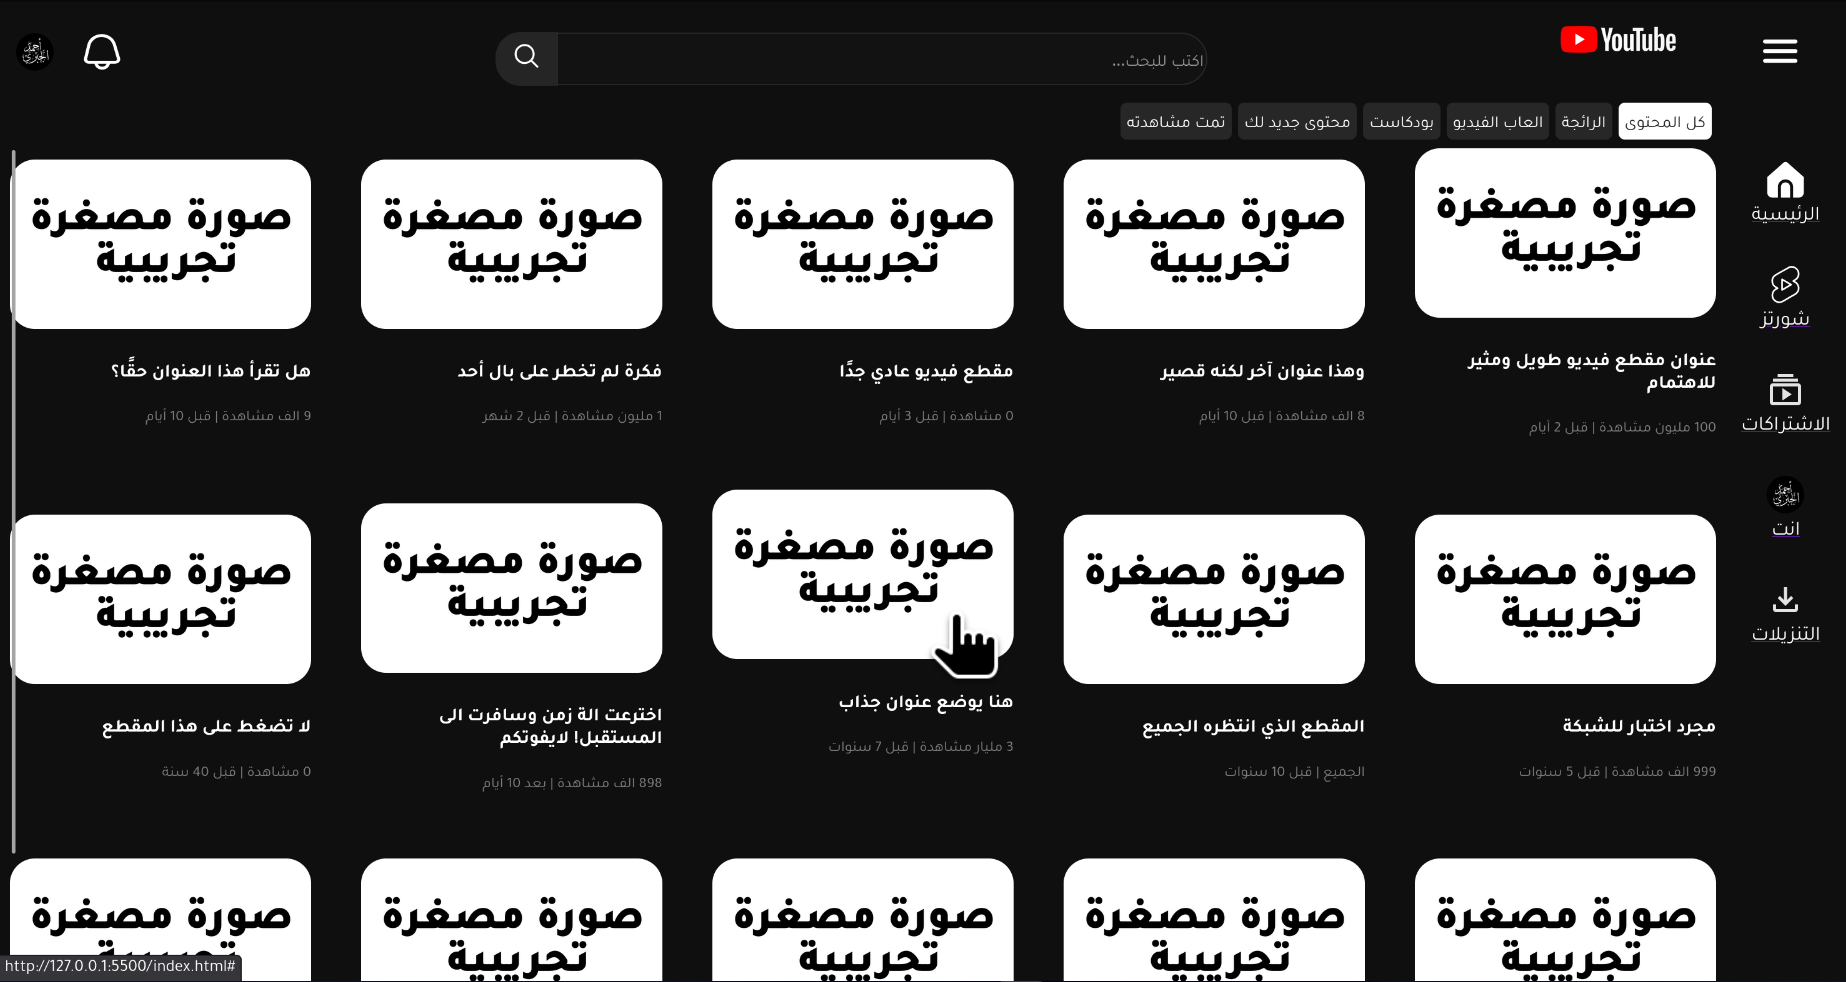
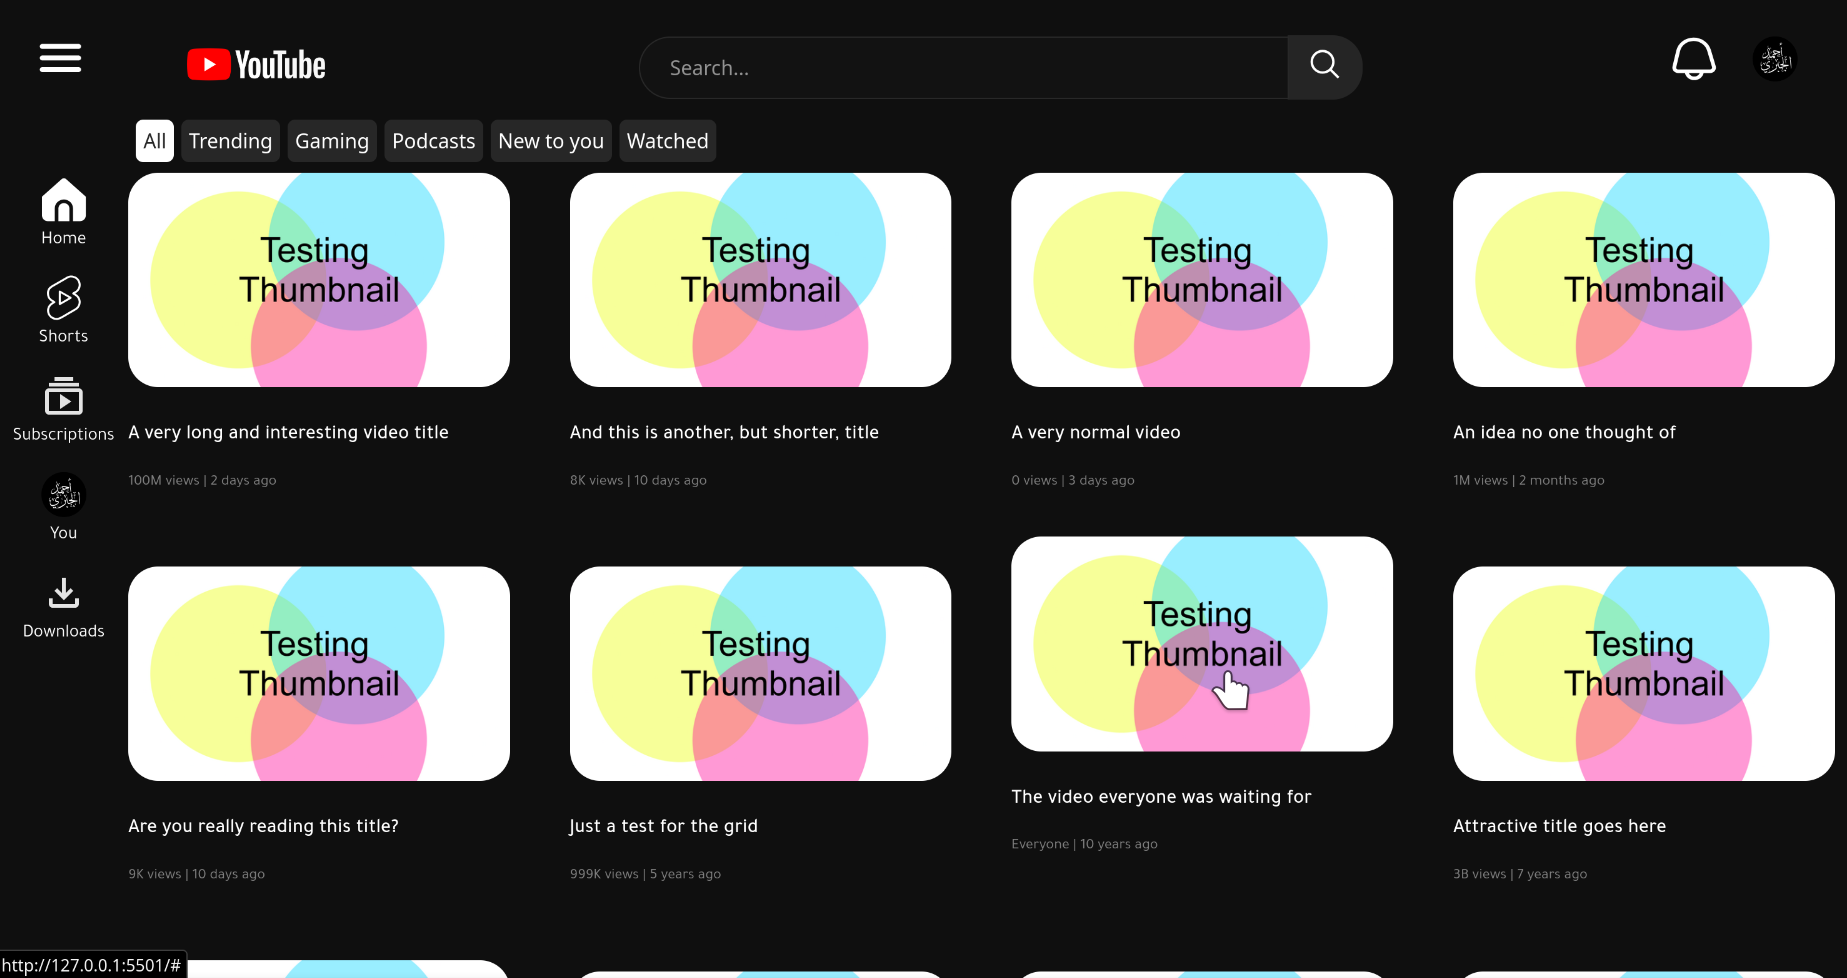
changing the screenshot in README.md

diff --git a/style/side.css b/style/side.css
@@ -13,11 +13,12 @@
 .side-bar {
     display: flex;
     flex-flow: column;
-    padding-right: 10px;
+    padding-right: 6px;
 }
 .side-bar a span {
     margin-top: 5px;
     color: white;
+    font-size: 12px;
 }
 
 .side-bar a {
@@ -26,7 +27,7 @@
     flex-flow: column nowrap;
     align-items: center;
     margin-bottom: 10px;
-    padding: 10px;
+    padding: 3px;
     border-radius: 10px;
     animation: slide-animation 0.5s ease-in-out both;
 }

diff --git a/style/header.css b/style/header.css
@@ -53,7 +53,7 @@
     justify-content: flex-end;
 }
 .menu {
-    margin-left: 20px;
+    margin-left: 5px;
     margin-right: 55px;
     align-self: center;
     padding: 10px;
@@ -70,7 +70,7 @@
 .filter-bar {
     display: flex;
     margin-top: 8px;
-    margin-left: 120px;
+    margin-left: 80px;
 }
 
 .filter-bar button {
